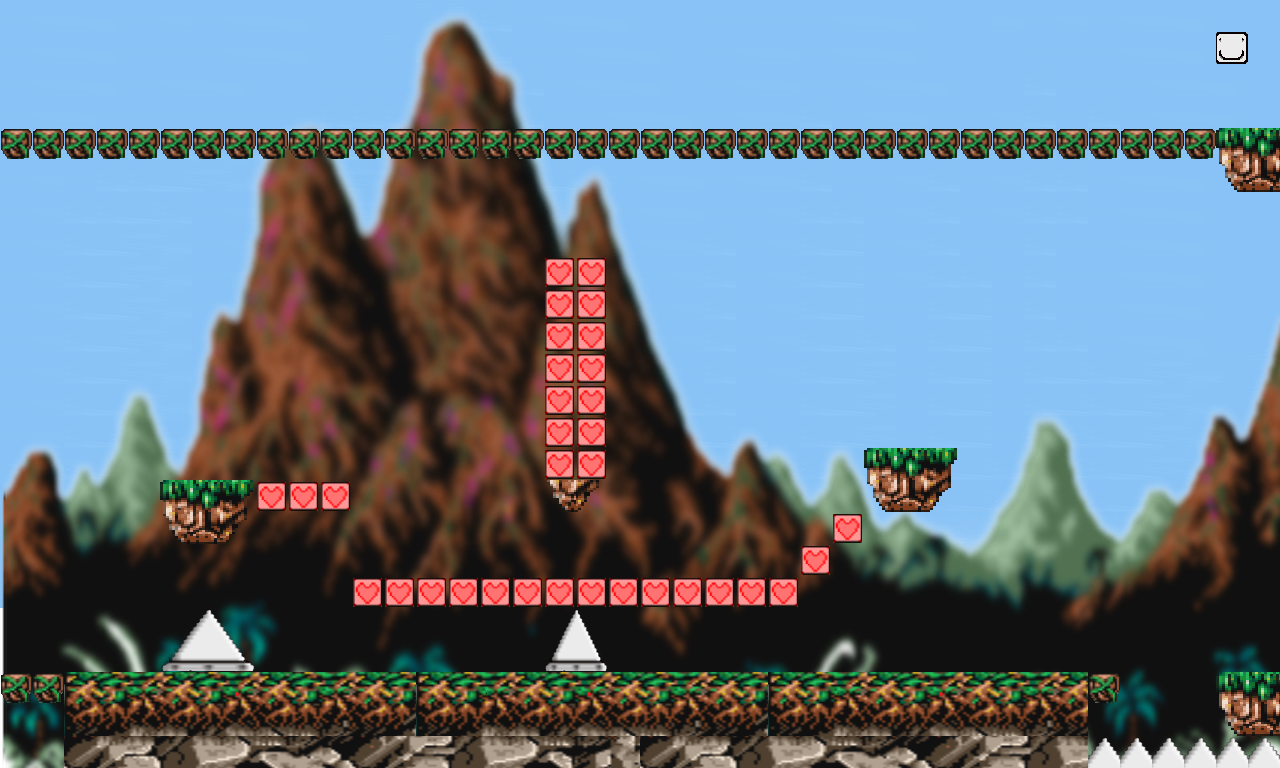
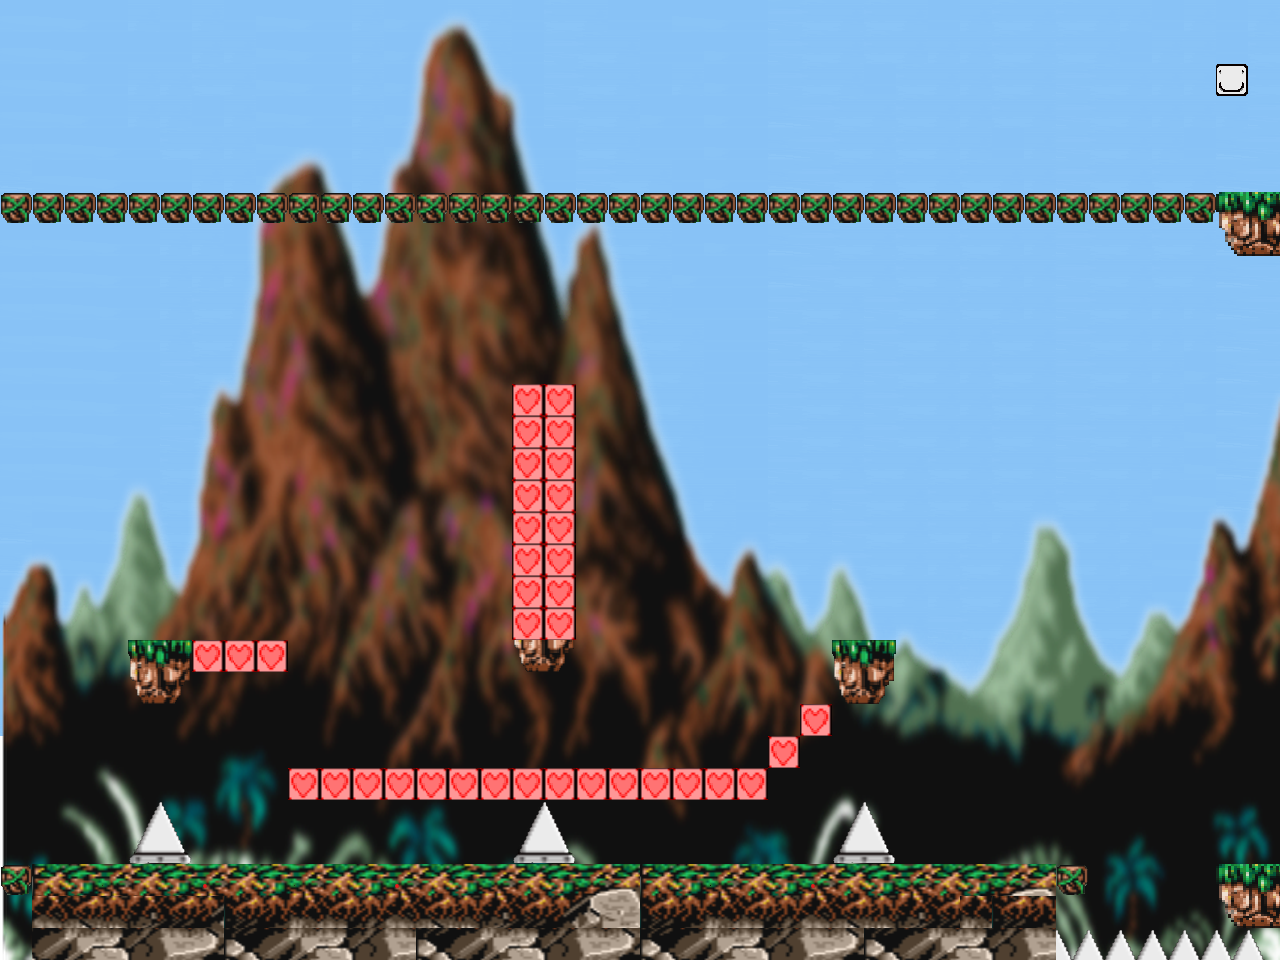
bullet
finished bullet animation !!!!!!!!!!

diff --git a/src/AppUpdate.cpp b/src/AppUpdate.cpp
@@ -18,66 +18,56 @@ void App::Update() {
     const float MaxFallSpeed = -20;
     static int jumpCount = 0;
     static float shootCooldown = 0;
-    const float BulletSpeed = 5.0f;
     const float deltaTime = 1.0f / 60.0f;
-    shootCooldown -= deltaTime;
+    shootCooldown -= deltaTime/2;
 
     glm::vec2 position = m_Boshy->GetPosition();
     auto* animatedBoshy = dynamic_cast<AnimatedCharacter*>(m_Boshy.get());
 
-    // **修正 TileX, TileY 計算**
+    // TileX, TileY 計算與碰撞檢測部分保持不變
     int tileX = static_cast<int>((position.x + 640) / 32);
-    int tileY = static_cast<int>((384 - position.y) / 32);
+    int tileY = static_cast<int>((480 - position.y) / 32);
 
-    // **確保 TileX, TileY 不超出範圍**
     if (tileX < 0) tileX = 0;
     if (tileX >= m_MapLoader->GetWidth()) tileX = m_MapLoader->GetWidth() - 1;
     if (tileY < 0) tileY = 0;
     if (tileY >= m_MapLoader->GetHeight()) tileY = m_MapLoader->GetHeight() - 1;
 
-    // **Debug 訊息**
     std::cout << "Position: (" << position.x << ", " << position.y << ")"
               << " Tile: (" << tileX << ", " << tileY << ")"
               << " Tile Value: " << m_MapLoader->GetTile(tileX, tileY) << std::endl;
 
-    // **施加重力**
     velocityY += Gravity;
     if (velocityY < MaxFallSpeed) velocityY = MaxFallSpeed;
     position.y += velocityY;
 
-    // **取得角色四周的 Tile**
-    int belowTile = m_MapLoader->GetTile(tileX, tileY + 1);  // 角色腳下
-    int aboveTile = m_MapLoader->GetTile(tileX, tileY - 1);  // 角色頭頂
-    int leftTile = m_MapLoader->GetTile(tileX - 1, tileY);   // 左邊
-    int rightTile = m_MapLoader->GetTile(tileX + 1, tileY);  // 右邊
+    int belowTile = m_MapLoader->GetTile(tileX, tileY + 1);
+    int aboveTile = m_MapLoader->GetTile(tileX, tileY - 1);
+    int leftTile = m_MapLoader->GetTile(tileX - 1, tileY);
+    int rightTile = m_MapLoader->GetTile(tileX + 1, tileY);
 
-    // **防止角色從上方穿透 `2`（天花板）**
     if (aboveTile == 2 && velocityY > 0) {
-        position.y = 384 - ((tileY + 1) * 32); // 讓角色頂住 `2`，不能再上升
+        position.y = 480 - ((tileY + 1) * 32);
         velocityY = 0;
     }
 
-    // **地板碰撞檢測**
     if (belowTile == 1 && velocityY < 0) {
-        position.y = 384 - ((tileY) * 32) - 16; // **讓角色對齊地板**
+        position.y = 480 - ((tileY) * 32) - 16;
         velocityY = 0;
         jumpCount = 0;
     }
 
-    // **防止角色從側面或底部穿入 `1`**
     if (m_MapLoader->GetTile(tileX, tileY) == 1 && velocityY >= 0) {
-        position.y = 384 - (tileY - 1) * 32;
+        position.y = 480 - (tileY - 1) * 32;
         velocityY = 0;
     }
 
-    // **牆壁碰撞（不可穿透 `2`）**
     if (Util::Input::IsKeyPressed(Util::Keycode::RIGHT)) {
-        float prevX = position.x;  // 記錄變更前的 X 位置
+        float prevX = position.x;
         if (rightTile != 2) {
             position.x += 5;
             animatedBoshy->SetDirection(Character::direction::RIGHT);
         }
-        // **如果 X 位置沒變，就不要設為 RUN**
         if (position.x != prevX) {
             animatedBoshy->SetState(Character::MoveState::RUN);
         } else {
@@ -85,31 +75,37 @@ void App::Update() {
         }
     }
     if (Util::Input::IsKeyPressed(Util::Keycode::LEFT)) {
-        float prevX = position.x;  // 記錄變更前的 X 位置
+        float prevX = position.x;
         if (leftTile != 2) {
             position.x -= 5;
             animatedBoshy->SetDirection(Character::direction::LEFT);
         }
-        // **如果 X 位置沒變，就不要設為 RUN_LEFT**
-        if (
-position.x != prevX) {
+        if (position.x != prevX) {
             animatedBoshy->SetState(Character::MoveState::RUN_LEFT);
         } else {
             animatedBoshy->SetState(Character::MoveState::IDLE_LEFT);
         }
     }
-
-    // **角色狀態變更**
-    if (shootCooldown <= 0 && Util::Input::IsKeyDown(Util::Keycode::X)) {
+    shootCooldown -= deltaTime;
+    // 射擊邏輯保持不變
+    if (shootCooldown <= 0 && Util::Input::IsKeyPressed(Util::Keycode::X)) {
+        auto bullet = std::make_shared<Bullet>();
+        bullet->SetPosition(m_Boshy->GetPosition());
+        bullet->SetLifeTime(2.0f);
+        bullet->SetVisible(true);
         if (m_Boshy->GetDirection() == Character::direction::LEFT) {
-            animatedBoshy->SetState(Character::MoveState::SHOOT_LEFT);
+            bullet->SetImage(RESOURCE_DIR"/Image/bullet2.png");
+            bullet->SetDirection(Character::direction::LEFT);
         } else {
-            animatedBoshy->SetState(Character::MoveState::SHOOT);
+            bullet->SetImage(RESOURCE_DIR"/Image/bullet.png");
+            bullet->SetDirection(Character::direction::RIGHT);
         }
-        m_Bullet->SetPosition(m_Boshy->GetPosition() + glm::vec2{10, 0});
-        m_Bullet->SetVisible(true);
+        m_Bullets.push_back(bullet);
+        m_Root.AddChild(bullet);
         shootCooldown = 0.5f;
-    } else if (Util::Input::IsKeyDown(Util::Keycode::Z) && jumpCount < 2) {
+    }
+
+    else if (Util::Input::IsKeyDown(Util::Keycode::Z) && jumpCount < 2) {
         velocityY = JumpPower;
         jumpCount++;
         if (animatedBoshy->GetDirection() == Character::direction::LEFT) {
@@ -124,12 +120,36 @@ position.x != prevX) {
             animatedBoshy->SetState(Character::MoveState::IDLE);
         }
     }
-
-    // **更新角色位置**
+    // 更新角色位置
     m_Boshy->SetPosition(position);
-    m_Bullet->SetPosition({m_Bullet->GetPosition().x + BulletSpeed, m_Bullet->GetPosition().y});
 
-    // **關閉窗口**
+    // 子彈移動邏輯修正
+    m_Bullet->Update(deltaTime); // 先更新子彈內部狀態（例如生命週期）
+    if (m_Bullet->IsVisible()) {
+        glm::vec2 bulletPosition = m_Bullet->GetPosition();
+        if (m_Bullet->GetDirection() == Character::direction::LEFT) {
+            bulletPosition.x -= 10.0f; // Move left with speed 5.0f
+        } else {
+            bulletPosition.x += 10.0f; // Move right with speed 5.0f
+        }
+        m_Bullet->SetPosition(bulletPosition);
+    }
+    for (auto& bullet : m_Bullets) {
+        bullet->Update(deltaTime);
+        if (bullet->IsVisible()) {
+            glm::vec2 bulletPosition = bullet->GetPosition();
+            if (bullet->GetDirection() == Character::direction::LEFT) {
+                bulletPosition.x -= 10.0f;
+            } else {
+                bulletPosition.x += 10.0f;
+            }
+            bullet->SetPosition(bulletPosition);
+        }
+    }
+    m_Bullets.erase(std::remove_if(m_Bullets.begin(), m_Bullets.end(),
+        [](const std::shared_ptr<Bullet>& bullet) { return !bullet->IsVisible(); }),
+        m_Bullets.end());
+    // 關閉窗口邏輯保持不變
     if (Util::Input::IsKeyUp(Util::Keycode::ESCAPE) || Util::Input::IfExit()) {
         m_CurrentState = State::END;
     }

diff --git a/include/Bullet.hpp b/include/Bullet.hpp
@@ -6,6 +6,7 @@
 #define BULLET_HPP
 #include "Util/GameObject.hpp"
 #include "Util/Animation.hpp"
+#include "character.hpp"
 
 
 class Bullet : public Util::GameObject {
@@ -13,13 +14,19 @@ public:
     [[nodiscard]] const glm::vec2& GetPosition() const { return m_Transform.translation; }
 
     void SetImage(const std::string& ImagePath);
-
-    void SetPosition(const glm::vec2& Position) { m_Transform.translation = Position; }
-
+    void SetPosition(const glm::vec2& Position);
+    void Update(float deltaTime);
+    bool IsVisible() const { return m_IsVisible; }
+    void SetVisible(bool visible) { m_IsVisible = visible; }
+    void SetLifeTime(float time) { lifeTime = time; }
+    void SetDirection(Character::direction dir) { m_Direction = dir; }
+    Character::direction GetDirection() const { return m_Direction; }
 
 private:
     std::shared_ptr<Util::Animation> m_Bullet;
     std::string ImagePath;
-    float flyingSpeed = 5.0f;
+    float lifeTime = 0.0f;
+    bool m_IsVisible = true;
+    Character::direction m_Direction;
 };
 #endif //BULLET_HPP

diff --git a/src/Bullet.cpp b/src/Bullet.cpp
@@ -1,0 +1,23 @@
+//
+// Created by howar on 2025/3/21.
+//
+#include "Bullet.hpp"
+void Bullet::SetImage(const std::string& imagePath) {
+    ImagePath = imagePath;
+    std::vector<std::string> imagePaths = {imagePath};
+    m_Bullet = std::make_shared<Util::Animation>(imagePaths, true, 100, true);
+    SetDrawable(m_Bullet);
+}
+
+void Bullet::SetPosition(const glm::vec2& position) {
+    m_Transform.translation = position;
+}
+void Bullet::Update(float deltaTime) {
+    if (lifeTime > 0) {
+        lifeTime -= deltaTime;
+        if (lifeTime <= 0) {
+            SetVisible(false);
+            SetDrawable(nullptr); // Clear the drawable
+        }
+    }
+}

diff --git a/include/App.hpp b/include/App.hpp
@@ -48,6 +48,9 @@ private:
     std::shared_ptr<Bullet> m_Bullet;
     std::shared_ptr<ResourceManager> m_PRM;
     std::shared_ptr<Menu> m_MenuSystem;
+    std::vector<std::shared_ptr<Bullet>> m_Bullets;
+    float shootCooldown = 0;
+
 };
 
 #endif
